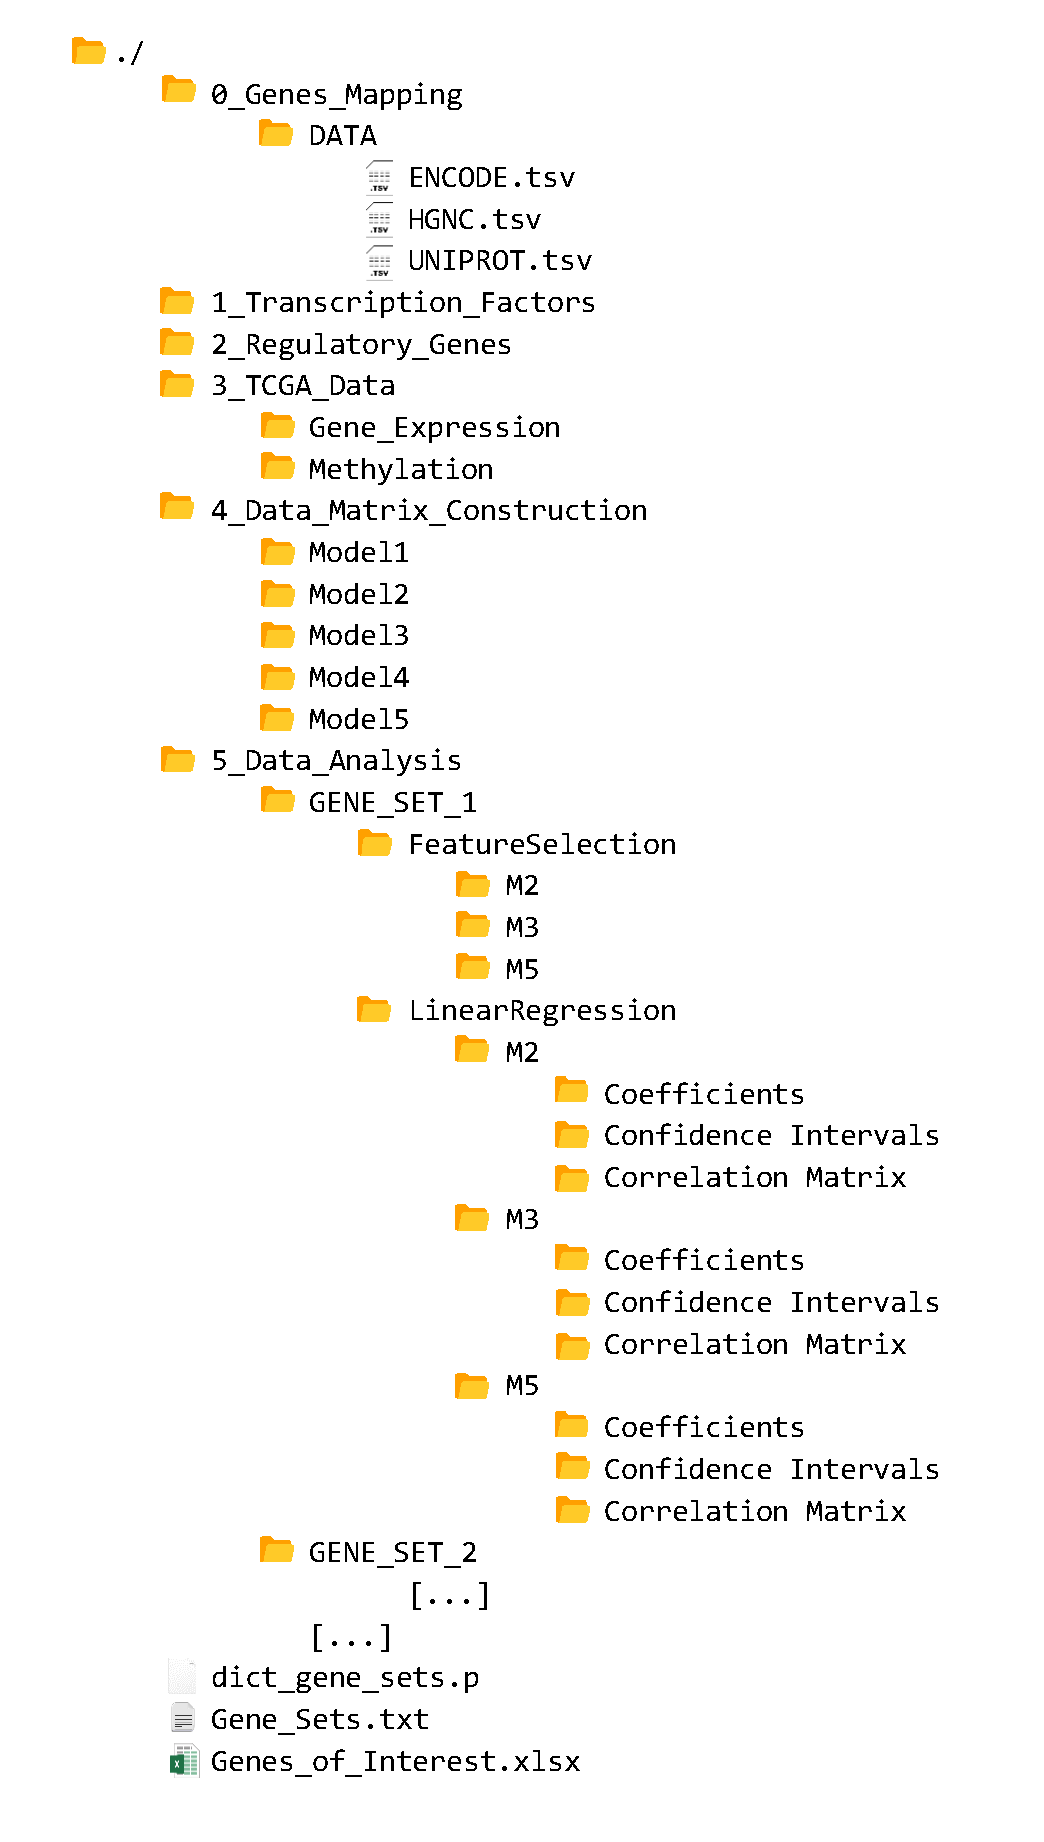
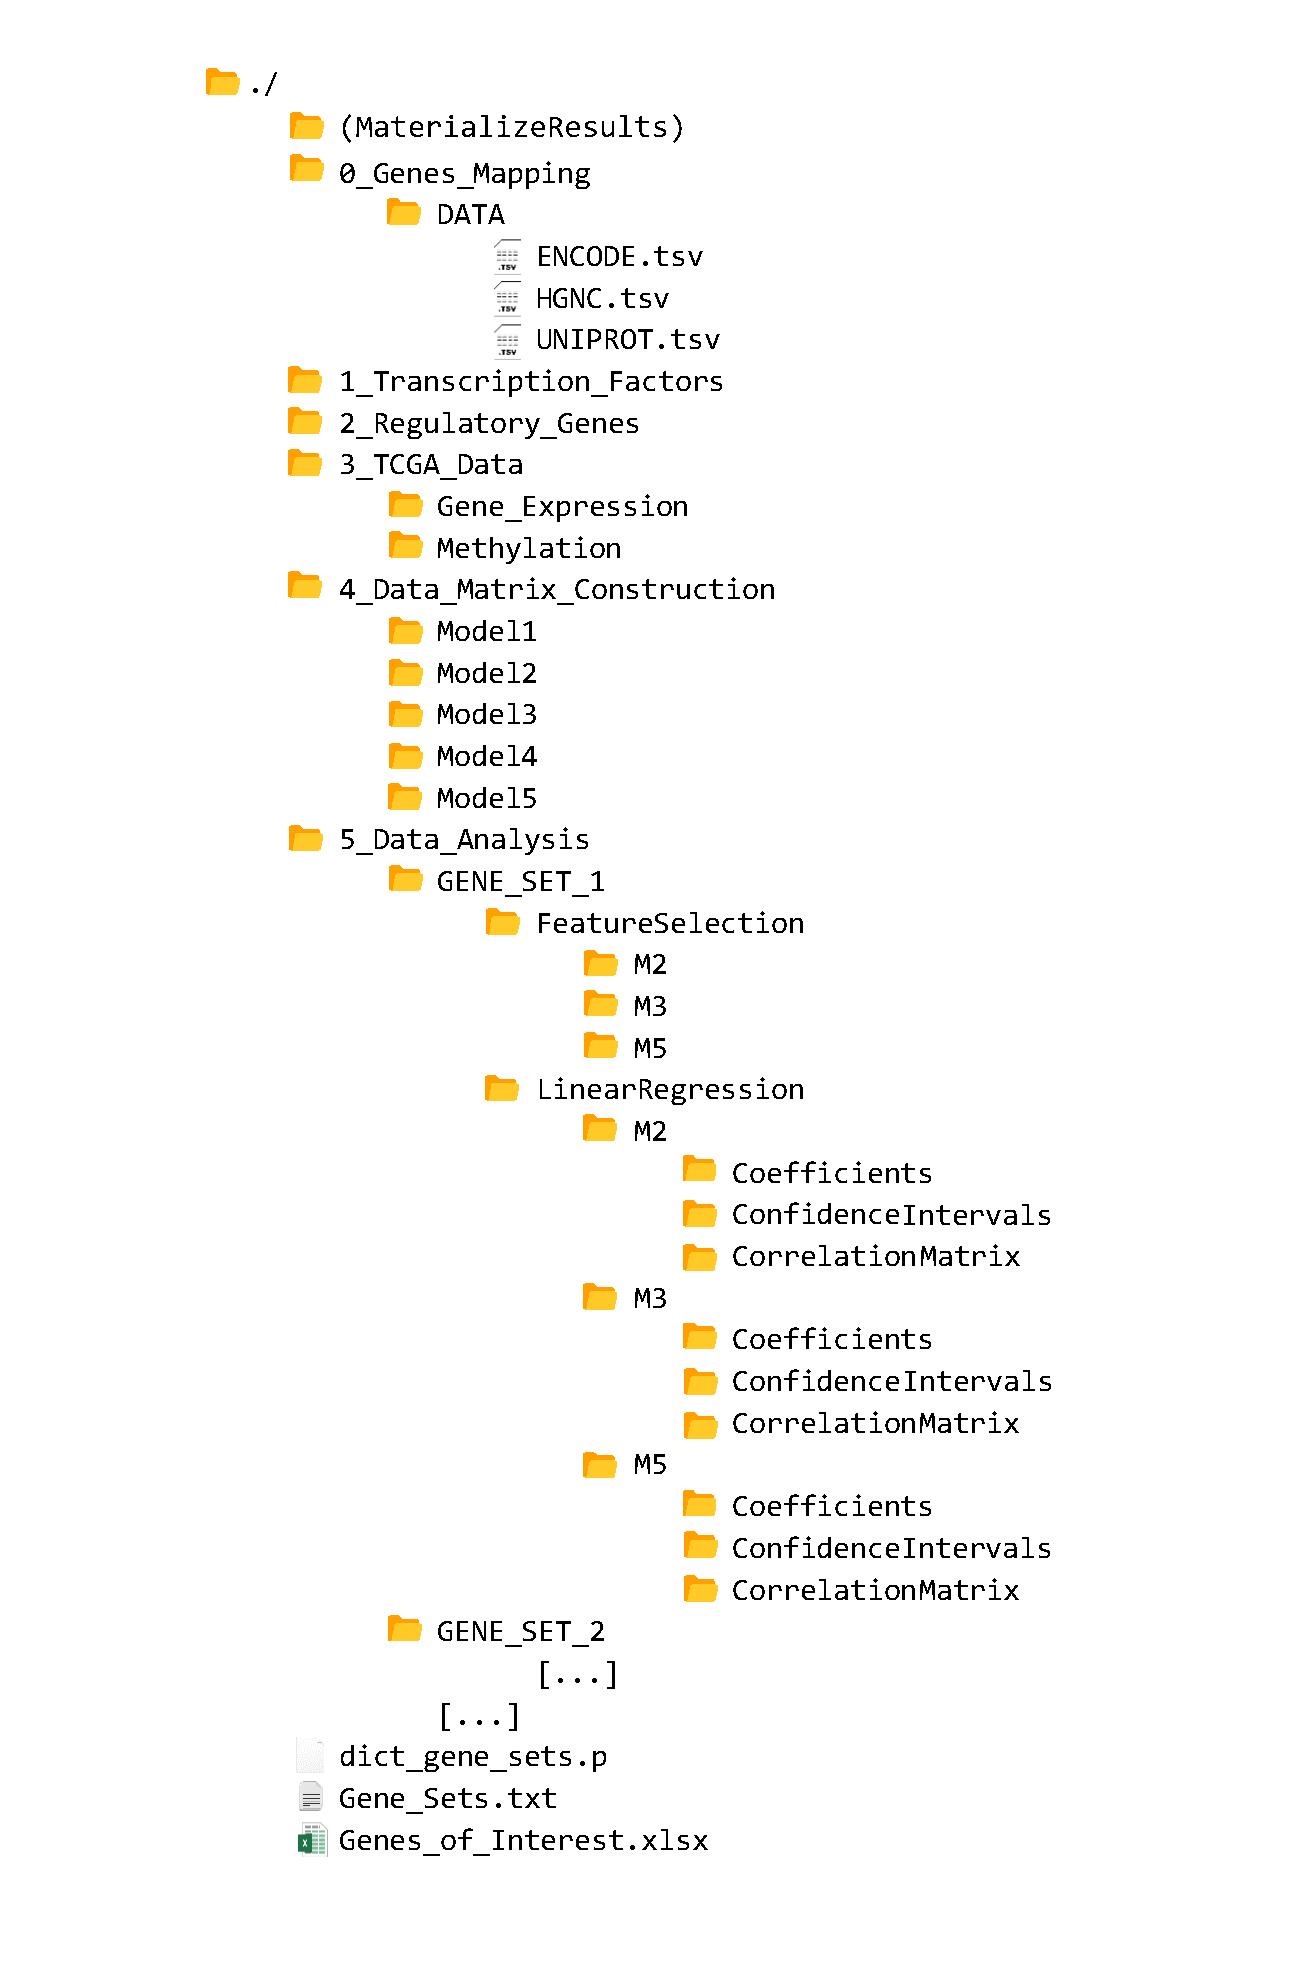
minor fixes v0.1.0

diff --git a/genereg/SummaryResults.py b/genereg/SummaryResults.py
@@ -143,10 +143,10 @@ def summarize_reg(gene_set, n_data_matrix):
 		coeff_df = pd.read_excel('./5_Data_Analysis/'+gene_set+'/LinearRegression/M'+model+'/Coefficients/Coefficients_(M'+model+')-Gene_'+gene_ID+'_['+current_gene+'].xlsx',sheetname='Sheet1',header=0)
 
 		# Import the confidence intervals
-		ci_df = pd.read_excel('./5_Data_Analysis/'+gene_set+'/LinearRegression/M'+model+'/Confidence Intervals/Confidence_Intervals_(M'+model+')-Gene_'+gene_ID+'_['+current_gene+'].xlsx',sheetname='Sheet1',header=0)
+		ci_df = pd.read_excel('./5_Data_Analysis/'+gene_set+'/LinearRegression/M'+model+'/ConfidenceIntervals/Confidence_Intervals_(M'+model+')-Gene_'+gene_ID+'_['+current_gene+'].xlsx',sheetname='Sheet1',header=0)
 		
 		# Import the correlation matrix
-		corr_df = pd.read_excel('./5_Data_Analysis/'+gene_set+'/LinearRegression/M'+model+'/Correlation Matrix/Correlation_Matrix_(M'+model+')-Gene_'+gene_ID+'_['+current_gene+'].xlsx',sheetname='Sheet1',header=0)
+		corr_df = pd.read_excel('./5_Data_Analysis/'+gene_set+'/LinearRegression/M'+model+'/CorrelationMatrix/Correlation_Matrix_(M'+model+')-Gene_'+gene_ID+'_['+current_gene+'].xlsx',sheetname='Sheet1',header=0)
 		
 		# Select the relevant features on the basis of the confidence intervals (i.e. if the confidence interval does not contain 0, then the feature is significant for the model)
 		relevant_features = []

diff --git a/genereg/LinearRegression.py b/genereg/LinearRegression.py
@@ -148,7 +148,7 @@ def linear_regression(gene_set, n_data_matrix):
 				p = row['p-value']
 				CI_df.set_value(feature_gene,'P',p)  
 		
-			ci_path = './5_Data_Analysis/'+gene_set+'/LinearRegression/M'+model+'/Confidence Intervals/'
+			ci_path = './5_Data_Analysis/'+gene_set+'/LinearRegression/M'+model+'/ConfidenceIntervals/'
 			writer = ExcelWriter(ci_path+'Confidence_Intervals_(M'+model+')-Gene_'+gene_ID+'_['+current_gene+'].xlsx')
 			CI_df.to_excel(writer,'Sheet1')
 			writer.save()
@@ -161,7 +161,7 @@ def linear_regression(gene_set, n_data_matrix):
 				cols_for_correlation = ['EXPRESSION ('+current_gene+')','METHYLATION ('+current_gene+')']+features_sel
 				model_gene_df_corr = original_model_gene_df[cols_for_correlation].copy()
 			corr_matrix = model_gene_df_corr.corr()    
-			corr_path = './5_Data_Analysis/'+gene_set+'/LinearRegression/M'+model+'/Correlation Matrix/'
+			corr_path = './5_Data_Analysis/'+gene_set+'/LinearRegression/M'+model+'/CorrelationMatrix/'
 			writer = ExcelWriter(corr_path+'Correlation_Matrix_(M'+model+')-Gene_'+gene_ID+'_['+current_gene+'].xlsx')
 			corr_matrix.to_excel(writer,'Sheet1')
 			writer.save()

diff --git a/genereg/Initialize.py b/genereg/Initialize.py
@@ -125,8 +125,8 @@ def library_init():
 		for model in model_names:
 			additional_dirs = []
 			elem_1 = './5_Data_Analysis/'+s+'/LinearRegression/'+model+'/Coefficients'
-			elem_2 = './5_Data_Analysis/'+s+'/LinearRegression/'+model+'/Confidence Intervals'
-			elem_3 = './5_Data_Analysis/'+s+'/LinearRegression/'+model+'/Correlation Matrix'
+			elem_2 = './5_Data_Analysis/'+s+'/LinearRegression/'+model+'/ConfidenceIntervals'
+			elem_3 = './5_Data_Analysis/'+s+'/LinearRegression/'+model+'/CorrelationMatrix'
 			additional_dirs.append(elem_1)
 			additional_dirs.append(elem_2)
 			additional_dirs.append(elem_3)

diff --git a/setup.py b/setup.py
@@ -5,7 +5,7 @@ with open("README.md", "r") as fh:
 
 setuptools.setup(
     name="genereg",
-    version="0.0.9",
+    version="0.1.0",
     author="Kia23",
     author_email="kia34.r18.dev@gmail.com",
     description="A library for analyzing the regulation systems of target genes belonging to genomic pathways relevant for a specific cancer type.",

diff --git a/doc/source/conf.py b/doc/source/conf.py
@@ -26,7 +26,7 @@ author = 'Chiara Regondi'
 # The short X.Y version
 version = ''
 # The full version, including alpha/beta/rc tags
-release = '0.0.9'
+release = '0.1.0'
 
 
 # -- General configuration ---------------------------------------------------

diff --git a/README.md b/README.md
@@ -1,7 +1,7 @@
 # genereg
 
 [![Documentation Status](https://readthedocs.org/projects/genereg/badge/?version=latest)](https://genereg.readthedocs.io/en/latest/?badge=latest)
-[![PyPI version](https://img.shields.io/badge/pypi%20package-0.0.9-brightgreen.svg)](https://pypi.org/project/genereg/0.0.9/)
+[![PyPI version](https://img.shields.io/badge/pypi%20package-0.1.0-brightgreen.svg)](https://pypi.org/project/genereg/0.1.0/)
 [![PyPI - Python Version](https://img.shields.io/badge/python-3.6-blue.svg)](https://github.com/Kia23/genereg)
 
 
